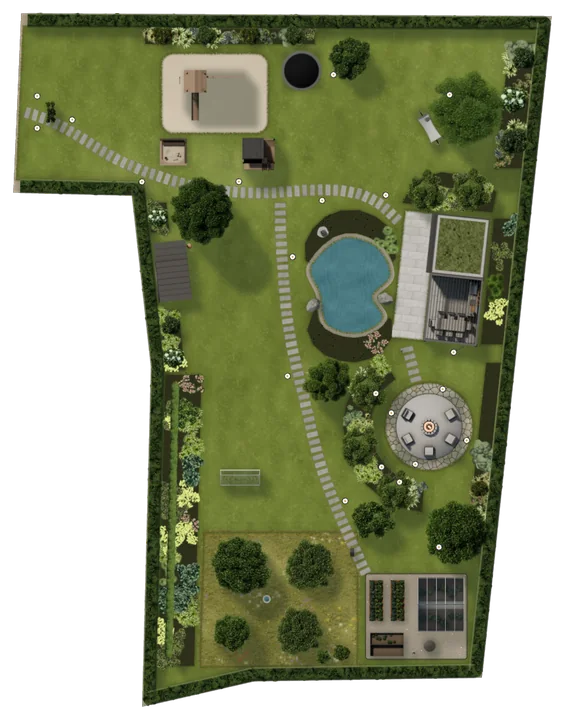
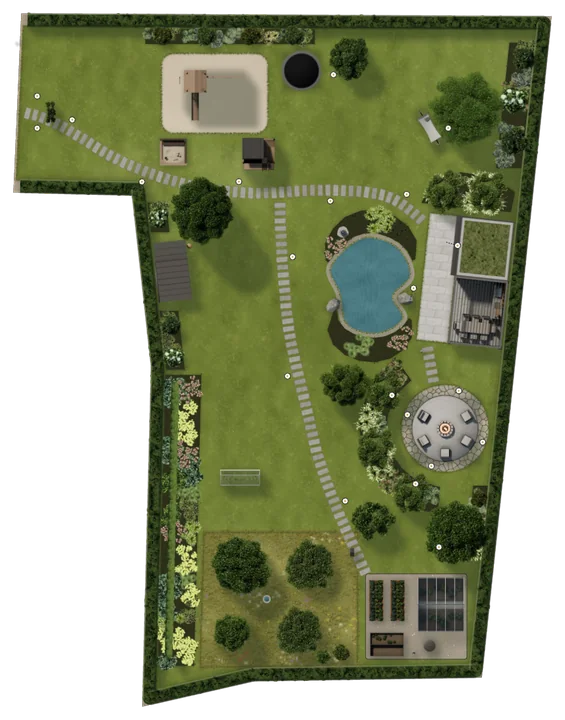
Mustergarten: Homeoffice-Linie direkt an die Ostgrenze, Rasen durchgehend unter allen Flächen
Claude-Session: https://claude.ai/code/session_01JVwQYcoiaaBAD8ZpW7JwRj

diff --git a/src/core/sample/spielgarten.ts b/src/core/sample/spielgarten.ts
@@ -8,8 +8,8 @@
  */
 import { difference } from '../geometry/clip';
 import { footprint } from '../geometry/objects';
-import { flatToRegion, simpleRegion } from '../geometry/regions';
-import { flattenRegion, pathSegments } from '../geometry/shape';
+import { simpleRegion } from '../geometry/regions';
+import { flattenRegion, pathSegments, type FlatRegion } from '../geometry/shape';
 import { cubicAt, cubicDerivative } from '../geometry/bezier';
 import { createProject, layerOfKind, objectBase } from '../model/defaults';
 import { newDrip, newLamp } from '../model/factory';
@@ -95,8 +95,8 @@ const CROSS_PATH: PathGeometry = {
     { p: P(6.2, 10.4), in: P(-2, -1.2), out: P(2, 1.2), smooth: true },
     { p: P(12.6, 12.9), in: P(-2.2, -0.6), out: P(2.4, 0.5), smooth: true },
     { p: P(19.6, 13.4), in: P(-2, 0.2), out: P(2, -0.2), smooth: true },
-    { p: P(25.2, 13.5), in: P(-1.6, -0.4), out: P(1.4, 0.4), smooth: true },
-    { p: P(28.2, 15.5), in: P(-1, -1) },
+    { p: P(26.6, 13.5), in: P(-1.8, -0.3), out: P(1.5, 0.3), smooth: true },
+    { p: P(30.0, 15.5), in: P(-1.1, -1) },
   ],
 };
 
@@ -119,22 +119,22 @@ const POND: PathGeometry = {
   closed: true,
   source: 'bezier',
   nodes: [
-    { p: P(24.04, 16.84), in: P(-0.82, 0.25), out: P(0.82, -0.25), smooth: true },
-    { p: P(26.64, 17.49), in: P(-0.6, -0.46), out: P(0.6, 0.46), smooth: true },
-    { p: P(27.67, 19.63), in: P(0.05, -0.62), out: P(-0.05, 0.62), smooth: true },
-    { p: P(26.36, 21.21), in: P(0.09, -0.54), out: P(-0.09, 0.54), smooth: true },
-    { p: P(27.11, 22.88), in: P(0.19, -0.46), out: P(-0.19, 0.46), smooth: true },
-    { p: P(25.25, 24.0), in: P(0.7, -0.08), out: P(-0.7, 0.08), smooth: true },
-    { p: P(22.92, 23.35), in: P(0.48, 0.5), out: P(-0.48, -0.5), smooth: true },
-    { p: P(22.36, 21.02), in: P(0.2, 0.73), out: P(-0.2, -0.73), smooth: true },
-    { p: P(21.71, 18.97), in: P(-0.28, 0.7), out: P(0.28, -0.7), smooth: true },
+    { p: P(25.54, 16.84), in: P(-0.82, 0.25), out: P(0.82, -0.25), smooth: true },
+    { p: P(28.14, 17.49), in: P(-0.6, -0.46), out: P(0.6, 0.46), smooth: true },
+    { p: P(29.17, 19.63), in: P(0.05, -0.62), out: P(-0.05, 0.62), smooth: true },
+    { p: P(27.86, 21.21), in: P(0.09, -0.54), out: P(-0.09, 0.54), smooth: true },
+    { p: P(28.61, 22.88), in: P(0.19, -0.46), out: P(-0.19, 0.46), smooth: true },
+    { p: P(26.75, 24.0), in: P(0.7, -0.08), out: P(-0.7, 0.08), smooth: true },
+    { p: P(24.42, 23.35), in: P(0.48, 0.5), out: P(-0.48, -0.5), smooth: true },
+    { p: P(23.86, 21.02), in: P(0.2, 0.73), out: P(-0.2, -0.73), smooth: true },
+    { p: P(23.21, 18.97), in: P(-0.28, 0.7), out: P(0.28, -0.7), smooth: true },
   ],
 };
 
-/** Ensemble als Linie an der Ostgrenze: Mitte, Drehung (Gartenseite nach Westen), 3 m Abstand zur Grenze */
-const ENSEMBLE = { x: 32.63, y: 19.97, rot: 96.03 };
+/** Ensemble als Linie direkt an der Ostgrenze (Rückwand vor der Hecke): Mitte, Drehung (Gartenseite nach Westen) */
+const ENSEMBLE = { x: 34.47, y: 20.17, rot: 96.03 };
 /** Feuerstelle in derselben Linie südlich der Küche (Brandschutz: Abstand zum Dach ≥ 5 m) */
-const FIRE = P(30.56, 30.98);
+const FIRE = P(31.76, 31.11);
 
 /** Ringsegment um die Feuerstelle (Winkel in Grad, y nach unten): Beet mit Kupferfelsenbirnen */
 function arcBed(a0: number, a1: number, r0: number, r1: number): PathGeometry {
@@ -269,21 +269,20 @@ export function createSpielgarten(): Project {
       'Felsenbirnen-Beet am Homeoffice',
       simpleRegion(
         poly([
-          [28.6, 14.2],
-          [29.4, 12.6],
-          [31.5, 11.9],
-          [34.0, 12.3],
-          [35.6, 13.4],
-          [35.3, 14.9],
-          [31.2, 14.5],
+          [30.00, 14.2],
+          [30.80, 12.6],
+          [32.90, 11.9],
+          [35.40, 12.3],
+          [37.00, 13.4],
+          [36.70, 14.9],
+          [32.60, 14.5],
         ]),
       ),
       FIRE_BED,
     ),
     planting('Felsenbirnen-Beet an der Feuerstelle', simpleRegion(arcBed(95, 235, 4.4, 6.4)), FIRE_BED),
     planting('Rabatte Ost Nord', simpleRegion(eastBand(2.2, 11.6, 1.9)), SUNNY),
-    planting('Schattenbeet hinter dem Gartenhaus', simpleRegion(eastBand(15.4, 24.8, 1.65)), [['dryopteris', 0.3], ['hosta', 0.2], ['carex', 0.2], ['alchemilla', 0.15], ['geranium', 0.15]], 7),
-    planting('Rabatte Ost Süd', simpleRegion(eastBand(26.2, 40.5, 1.1)), SUNNY),
+    planting('Rabatte Ost Süd', simpleRegion(eastBand(35.4, 40.5, 1.1)), SUNNY),
     planting('Rabatte West Nord', simpleRegion(westBand(14.2, 16.4)), [
       ['geranium', 0.3],
       ['alchemilla', 0.25],
@@ -315,8 +314,8 @@ export function createSpielgarten(): Project {
       'Uferbeet Nord',
       simpleRegion(
         poly([
-          [21.32, 18.53], [21.27, 17.24], [21.85, 16.15], [22.77, 15.25], [23.99, 14.77], [25.3, 14.75], [26.51, 15.21], [27.51, 15.97], [28.14, 17.03], [28.03, 18.41],
-          [27.82, 18.55], [27.44, 17.8], [26.83, 17.19], [26.05, 16.76], [25.18, 16.48], [24.26, 16.49], [23.37, 16.76], [22.64, 17.3], [22.04, 17.95], [21.53, 18.66],
+          [22.82, 18.53], [22.77, 17.24], [23.35, 16.15], [24.27, 15.25], [25.49, 14.77], [26.80, 14.75], [28.01, 15.21], [29.01, 15.97], [29.64, 17.03], [29.53, 18.41],
+          [29.32, 18.55], [28.94, 17.8], [28.33, 17.19], [27.55, 16.76], [26.68, 16.48], [25.76, 16.49], [24.87, 16.76], [24.14, 17.3], [23.54, 17.95], [23.03, 18.66],
         ]),
       ),
       POND_EDGE,
@@ -326,8 +325,8 @@ export function createSpielgarten(): Project {
       'Uferbeet Süd',
       simpleRegion(
         poly([
-          [27.76, 23.0], [27.77, 24.31], [27.12, 25.24], [26.15, 25.88], [25.01, 26.15], [23.83, 26.04], [22.75, 25.6], [21.88, 24.83], [21.44, 23.74], [21.92, 22.32],
-          [22.13, 22.2], [22.25, 23.0], [22.74, 23.63], [23.43, 24.02], [24.18, 24.24], [24.97, 24.32], [25.76, 24.21], [26.48, 23.91], [27.1, 23.44], [27.57, 22.84],
+          [29.26, 23.0], [29.27, 24.31], [28.62, 25.24], [27.65, 25.88], [26.51, 26.15], [25.33, 26.04], [24.25, 25.6], [23.38, 24.83], [22.94, 23.74], [23.42, 22.32],
+          [23.63, 22.2], [23.75, 23.0], [24.24, 23.63], [24.93, 24.02], [25.68, 24.24], [26.47, 24.32], [27.26, 24.21], [27.98, 23.91], [28.60, 23.44], [29.07, 22.84],
         ]),
       ),
       POND_EDGE,
@@ -336,7 +335,7 @@ export function createSpielgarten(): Project {
   ];
 
   // ---------- Flächen und Wege (Wege nur aus Trittplatten)
-  const ensembleTerrace = area('Terrasse Gartenhaus & Küche', simpleRegion(rect(29.45, 19.64, 2.4, 9.6, 0, ENSEMBLE.rot - 90)), 'slabs');
+  const ensembleTerrace = area('Terrasse Gartenhaus & Küche', simpleRegion(rect(31.29, 19.83, 2.4, 9.6, 0, ENSEMBLE.rot - 90)), 'slabs');
   const sand = area('Spielsand', simpleRegion(rect(14.5, 6.0, 8, 6, 0.9)), 'sand');
   const firePlace = area('Platz Feuerstelle', simpleRegion(rect(FIRE.x, FIRE.y, 6.6, 6.6, 3.3)), 'flagstone');
   const pond = area('Naturteich', simpleRegion(POND), 'water');
@@ -354,12 +353,14 @@ export function createSpielgarten(): Project {
   );
   const vegGravel = area('Kiesfläche Gemüsegarten', simpleRegion(rect(29.6, 45.2, 7.6, 6.4, 0.2)), 'gravel', { catalogId: 'edge.stahl-anthrazit', sides: 'outline' });
   const cross = path('Trittplatten Zugang – Homeoffice', CROSS_PATH, 0.9, 'stepping');
-  const toFire = path('Trittplatten Küche – Feuerstelle', line([[28.9, 24.9], [29.6, 27.6]]), 0.9, 'stepping');
+  const toFire = path('Trittplatten Küche – Feuerstelle', line([[30.4, 24.9], [30.9, 27.7]]), 0.9, 'stepping');
   const south = path('Trittplatten Teich – Gemüsegarten', SOUTH_PATH, 0.9, 'stepping');
 
+  // Rasen durchgehend unter allen Flächen und Beeten: wer Terrasse, Teich oder Beete verschiebt, hinterlässt keine Lücke
+  add(area('Rasen', simpleRegion(poly(LAWN_OUTLINE)), 'lawn'));
+  // Regner nur dort, wo der Rasen frei liegt
   const lawnCut = [...beds, ensembleTerrace, sand, firePlace, pond, orchard, vegGravel].flatMap((o) => footprint(o));
-  const lawn = difference([flattenRegion(simpleRegion(poly(LAWN_OUTLINE)))], lawnCut);
-  lawn.forEach((r, i) => add(area(i === 0 ? 'Rasen' : `Rasen ${i + 1}`, flatToRegion(r), 'lawn')));
+  const openLawn = difference([flattenRegion(simpleRegion(poly(LAWN_OUTLINE)))], lawnCut);
   [ensembleTerrace, sand, firePlace, pond, orchard, vegGravel, cross, south, toFire].forEach((o) => add(o));
   beds.forEach((b) => add(b));
 
@@ -406,7 +407,7 @@ export function createSpielgarten(): Project {
     plantedDiameter: d,
   });
   // Kupferfelsenbirnen (mehrstämmig) umfassen Feuerstelle und Terrasse: Sichtschutz mit Lücken zum Garten
-  for (const [x, y] of [[30.3, 13.3], [33.7, 13.2]] as [number, number][]) add(plant('amelanchier-lamarckii', x, y, 3.2, 'Kupferfelsenbirne', 2020));
+  for (const [x, y] of [[31.7, 13.3], [35.0, 13.3]] as [number, number][]) add(plant('amelanchier-lamarckii', x, y, 3.2, 'Kupferfelsenbirne', 2020));
   for (const a of [118, 165, 212]) add(plant('amelanchier-lamarckii', ...onArc(a, 5.4), 3.2, 'Kupferfelsenbirne', 2020));
   // Hausbäume: Walnuss über der Hängematte in der Ruheecke oben rechts, Esskastanie am Gemüsegarten, Roteiche am Gerätehaus, Judasbaum am Spielgarten
   add(plant('juglans-regia', 33.4, 7.2, 5.6, 'Walnuss', 2012));
@@ -414,7 +415,7 @@ export function createSpielgarten(): Project {
   add(plant('quercus-rubra', 13.6, 14.8, 4.6, 'Amerikanische Roteiche', 2014));
   add(plant('cercis-siliquastrum', 24.6, 3.4, 3.2, 'Judasbaum', 2016));
   // Füllung: mehrstämmige Birke am Teich, Magnolie zwischen Teich und Gemüsegarten
-  add(plant('betula-pendula', 22.9, 27.6, 3.4, 'Birke', 2016));
+  add(plant('betula-pendula', 24.2, 27.8, 3.4, 'Birke', 2016));
   add(plant('magnolia', 26.3, 38.0, 3.2, 'Tulpen-Magnolie', 2016));
   // Obstwiese: Apfel, Birne, Süßkirsche (Halbstämme)
   add(plant('prunus-avium', 16.4, 41.4, 4.4, 'Süßkirsche', 2018));
@@ -426,7 +427,7 @@ export function createSpielgarten(): Project {
   let k = 0;
   const shrub = (x: number, y: number, d: number, id?: string) => add(plant(id ?? kinds[k++ % kinds.length], x, y, d));
   for (let y = 3.4; y < 11; y += 3.1) shrub(eastX(y) - 0.85 - (k % 2) * 0.35, y, 1.8 + (k % 3) * 0.25);
-  for (const y of [35.6, 38.2]) shrub(eastX(y) - 0.7, y, 1.3);
+  for (const y of [36.4, 38.8]) shrub(eastX(y) - 0.7, y, 1.3);
   for (const y of [15.3, 23.4, 25.8]) shrub(westHedgeX(y) + 1.3, y, 1.5, k++ % 2 ? 'hydrangea' : 'viburnum');
   for (let x = 10.6; x < 21.5; x += 3.3) shrub(x, 1.65, 1.5, k++ % 2 ? 'spiraea' : 'rosa-shrub');
   shrub(24.0, 47.9, 1.3, 'ribes');
@@ -454,9 +455,9 @@ export function createSpielgarten(): Project {
   add(item('gartenhaus-office-kueche', ENSEMBLE.x, ENSEMBLE.y, ENSEMBLE.rot, null, 'Homeoffice & Outdoorküche'));
   add(item('firepit-round', FIRE.x, FIRE.y, 0, null, 'Feuerstelle'));
   // ⑤ Naturteich vor der Terrasse: Quellstein als Zulauf, Findlinge am Ufer; Hängematte unter der Walnuss
-  add(item('spring-stone', 22.6, 16.4, 0, null, 'Quellstein'));
-  add(item('boulder-granite', 27.3, 21.4, 20));
-  add(item('boulder-granite', 21.9, 21.9, 140));
+  add(item('spring-stone', 24.1, 16.4, 0, null, 'Quellstein'));
+  add(item('boulder-granite', 28.8, 21.4, 20));
+  add(item('boulder-granite', 23.4, 21.9, 140));
   add(item('haengematte-gestell', 30.6, 8.6, 60, null, 'Hängematte'));
   // ⑦ Obstwiese: Vogeltränke und Insektenhotel
   add(item('insect-hotel', 24.8, 40.4, 270));
@@ -473,7 +474,7 @@ export function createSpielgarten(): Project {
   add(item('tap-post', 29.4, 47.9));
   // ⑨ Gerätehaus mit Kaminholzunterstand an der Westgrenze, Tür zum Garten
   add(item('geraetehaus-holzunterstand', 11.35, 19.33, -96.35, null, 'Gerätehaus & Kaminholz'));
-  add(item('power-post', 28.5, 25.2));
+  add(item('power-post', 30.0, 25.3));
 
   // ---------- Beschriftung: die acht Zonen
   const text = (t: string, x: number, y: number, size = 0.65): TextObject => ({
@@ -487,9 +488,9 @@ export function createSpielgarten(): Project {
   });
   add(text('① Zugang alter Garten', 3.6, 3.4));
   add(text('② Spielgarten', 14.5, 9.7));
-  add(text('③ Homeoffice & Küche', 31.4, 26.3));
+  add(text('③ Homeoffice & Küche', 32.6, 26.4));
   add(text('④ Feuerstelle', FIRE.x, 35.2));
-  add(text('⑤ Naturteich', 24.6, 27.0));
+  add(text('⑤ Naturteich', 26.0, 26.9));
   add(text('⑥ Spalier', 12, 37.5));
   add(text('⑦ Obstwiese', 18.2, 48.2));
   add(text('⑧ Gemüsegarten', 29.6, 41.2));
@@ -506,7 +507,7 @@ export function createSpielgarten(): Project {
   add(dim(P(39.75, 0.21), P(34.51, 49.78), -1.2));
 
   addLighting(p, add);
-  addIrrigation(p, add, BEDS);
+  addIrrigation(p, add, openLawn, BEDS);
   // Nachbarhaus auf Flurstück 38: Blick auf Feuerstelle und Lounge prüfen (Sichtschutz-Reiter)
   p.observers.push({ id: 'nachbar-38', name: 'Nachbarhaus Flurstück 38, 1. OG', position: P(3, 36), eyeHeight: 4.5 });
   return p;
@@ -525,7 +526,7 @@ function addLighting(p: Project, add: (o: PlanObject) => PlanObject) {
     });
   lamp('bollard', 1.2, 6.2, { name: 'Poller Zugang' });
   lamp('bollard', 1.2, 8.6, { name: 'Poller Zugang' });
-  lamp('treeUplight', 32.4, 25.4, {
+  lamp('treeUplight', 32.0, 8.6, {
     name: 'Baumstrahler Walnuss',
     directionDeg: 45,
     beamAngleDeg: 36,
@@ -552,13 +553,13 @@ function addLighting(p: Project, add: (o: PlanObject) => PlanObject) {
       lumen: 260,
     });
   }
-  lamp('wall', 32.1, 6.1, {
+  lamp('wall', 32.7, 17.4, {
     name: 'Wandleuchte Homeoffice',
     directionDeg: 270,
   });
-  lamp('spot', 27.0, 34.0, {
+  lamp('spot', 29.4, 20.6, {
     name: 'Spot Naturteich',
-    directionDeg: 0,
+    directionDeg: 180,
     beamAngleDeg: 50,
     lumen: 300,
   });
@@ -569,11 +570,8 @@ function addLighting(p: Project, add: (o: PlanObject) => PlanObject) {
 }
 
 /** Versenkregner für den Rasen, Tropfschlauch in jedem Hochbeet */
-function addIrrigation(p: Project, add: (o: PlanObject) => PlanObject, beds: [number, number][]) {
-  for (const o of Object.values(p.objects)) {
-    if (o.type !== 'area' || o.materialId !== 'lawn') continue;
-    for (const r of footprint(o)) for (const sp of sprinklersFor(p, r, 1)) add({ ...sp, zone: sp.position.y < 26 ? 1 : 2 });
-  }
+function addIrrigation(p: Project, add: (o: PlanObject) => PlanObject, openLawn: FlatRegion[], beds: [number, number][]) {
+  for (const r of openLawn) for (const sp of sprinklersFor(p, r, 1)) add({ ...sp, zone: sp.position.y < 26 ? 1 : 2 });
   beds.forEach(([x, y]) =>
     add({
       ...newDrip(

diff --git a/src/core/sample/spielgarten.test.ts b/src/core/sample/spielgarten.test.ts
@@ -60,7 +60,7 @@ describe('Mustergarten Entspannung, Spiel & Obst', () => {
     for (const f of fruit) if (f.type === 'plant') expect(f.position.y).toBeGreaterThan(38);
   });
 
-  it('Ensemble: Homeoffice mit Outdoorküche an der Ostgrenze (3 m Abstand), Feuerstelle ≥ 5 m davor', () => {
+  it('Ensemble: Homeoffice mit Outdoorküche direkt an der Ostgrenze, Feuerstelle ≥ 5 m davor', () => {
     const ens = objs.find((o) => o.type === 'item' && o.catalogId === 'gartenhaus-office-kueche');
     const fire = objs.find((o) => o.type === 'item' && o.catalogId === 'firepit-round');
     expect(ens && fire).toBeTruthy();
@@ -68,7 +68,10 @@ describe('Mustergarten Entspannung, Spiel & Obst', () => {
     // Abstand jeder Ecke zur Ostgrenze B–C
     const [b, c] = [doc.site.boundary[1], doc.site.boundary[2]];
     const len = Math.hypot(c.x - b.x, c.y - b.y);
-    for (const q of corners) expect(Math.abs((c.x - b.x) * (b.y - q.y) - (b.x - q.x) * (c.y - b.y)) / len).toBeGreaterThan(2.95);
+    const dist = corners.map((q) => Math.abs((c.x - b.x) * (b.y - q.y) - (b.x - q.x) * (c.y - b.y)) / len);
+    // Rückwand direkt vor der Hecke an der Grenze
+    expect(Math.min(...dist)).toBeGreaterThan(1);
+    expect(Math.min(...dist)).toBeLessThan(1.3);
     if (fire?.type === 'item') for (const q of corners) expect(Math.hypot(q.x - fire.position.x, q.y - fire.position.y)).toBeGreaterThan(5);
     const amel = objs.filter((o) => o.type === 'plant' && o.speciesId === 'amelanchier-lamarckii');
     expect(amel.length).toBeGreaterThanOrEqual(4);
@@ -83,6 +86,14 @@ describe('Mustergarten Entspannung, Spiel & Obst', () => {
         items.some((o) => o.catalogId === gone),
         gone,
       ).toBe(false);
+  });
+
+  it('Rasen durchgehend: eine Fläche ohne Ausschnitte, Terrasse und Teich liegen darauf', () => {
+    const lawns = objs.filter((o) => o.type === 'area' && o.materialId === 'lawn');
+    expect(lawns).toHaveLength(1);
+    const fp = footprint(lawns[0]);
+    expect(fp).toHaveLength(1);
+    expect(fp[0].holes).toHaveLength(0);
   });
 
   it('Naturteich 25–35 m², Wege nur aus Trittplatten', () => {

diff --git a/docs/ENTWICKLUNG.md b/docs/ENTWICKLUNG.md
@@ -101,7 +101,7 @@ Umgesetzt sind alle acht Kernfunktionen der Phase 1 sowie PNG-Export (siehe `ARC
 - Basalt für Beete: Basaltsplitt als Abdeckung jeder Pflanzfläche wählbar (Eigenschaften → Abdeckung), dazu Basalt-Findlinge und Basaltstelen im Katalog.
 - Mustergärten (`src/core/sample/samples.ts`):
   - „Modern & Naturnah“ (30 × 50 m, sieben Zonen: Eingang, Spiel, Rasen, Hochbeete, Pavillon, Naturwiese mit Homeoffice-Pod, Feuerstelle).
-  - „Entspannung, Spiel & Obst“ (aufgemessenes Grundstück, rund 1.500 m², neun Zonen: Zugang vom alten Garten, Spielgarten, Gartenhaus als Homeoffice mit überdachter Outdoorküche an der Ostgrenze (3 m Abstand, ein Aufenthaltsraum), Feuerstelle 5,6 m davor, umfasst von Kupferfelsenbirnen und Beeten, Naturteich, Spalierlinden an der Grenze, Obstwiese, kompakter Gemüsegarten, Gerätehaus mit Kaminholzunterstand an der Westgrenze; Rotbuchenhecke ringsum, offen zum alten Garten; Wege nur aus Trittplatten).
+  - „Entspannung, Spiel & Obst“ (aufgemessenes Grundstück, rund 1.500 m², neun Zonen: Zugang vom alten Garten, Spielgarten, Gartenhaus als Homeoffice mit überdachter Outdoorküche direkt an der Ostgrenze (Rückwand vor der Hecke); der Rasen liegt durchgehend unter allen Flächen, damit verschobene Flächen keine Lücke hinterlassen, Feuerstelle 5,6 m davor, umfasst von Kupferfelsenbirnen und Beeten, Naturteich, Spalierlinden an der Grenze, Obstwiese, kompakter Gemüsegarten, Gerätehaus mit Kaminholzunterstand an der Westgrenze; Rotbuchenhecke ringsum, offen zum alten Garten; Wege nur aus Trittplatten).
   - Neuer Mustergarten aus einem JSON-Export: Grenze und Kanten aus der Datei übernehmen, Inhalt als Funktion in `src/core/sample/` bauen, in `SAMPLES` eintragen, Test wie `spielgarten.test.ts` (alles im Grundstück, nur Katalogeinträge), Vorschaubild nach `public/assets/samples/`.
 - Beläge ohne sichtbare Kachelwiederholung und ohne harte Kanten: aufgebrochene Texturen, großflächige Variation, einmalige Details, ausgefranste Ränder und echte Grashalme, die über Rasen- und Beetkanten hängen. Mehrere Blender-Varianten je Belag (Kies, Wiese …) gegen Wiederholung.
 - Einfassung wählbar (Eigenschaften: Ohne / Stein / Stahl / Corten) und als echtes Material mit Licht und Schatten gezeichnet; ohne Einfassung keine Linie. Einzelne Kiesel, Rindenstücke und Laub liegen über den Kanten.
